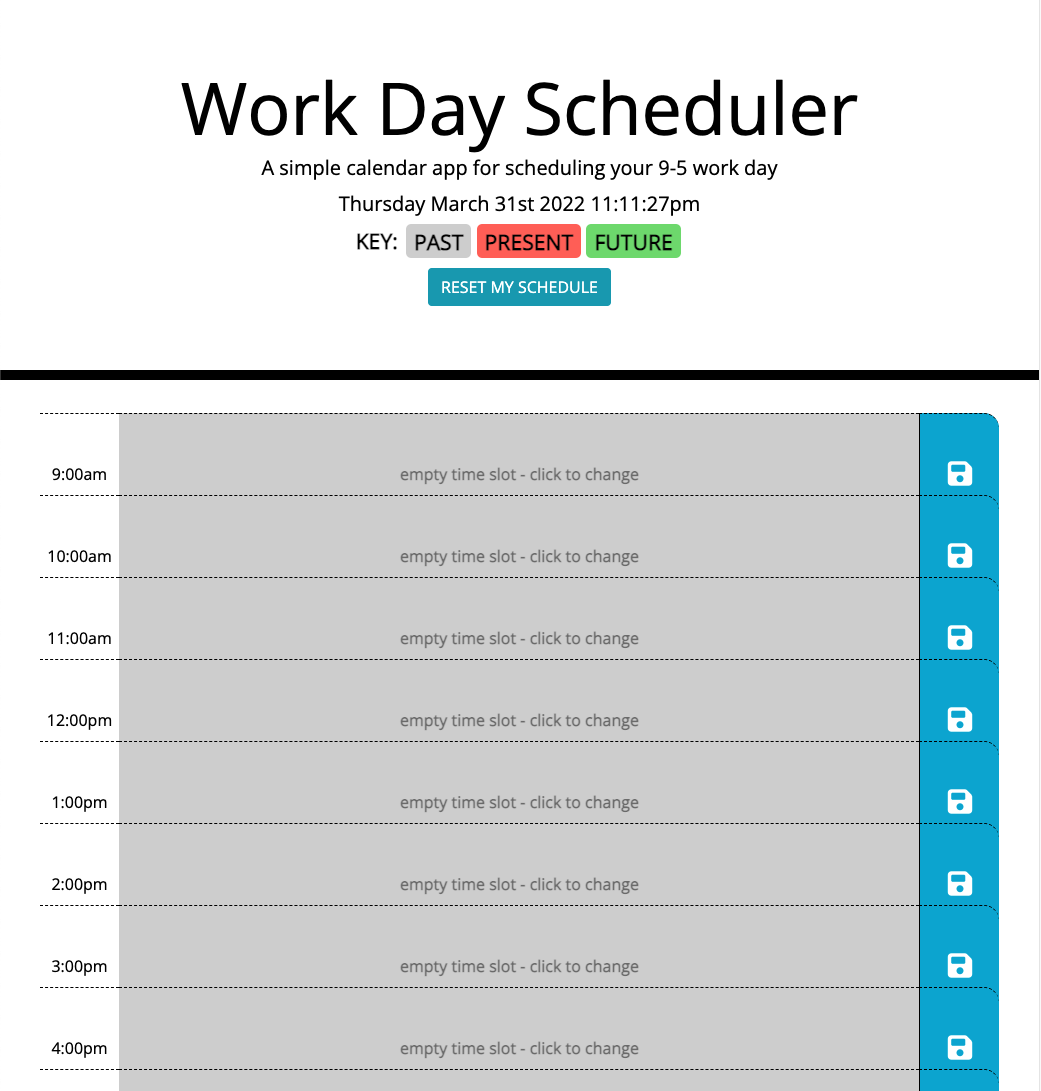
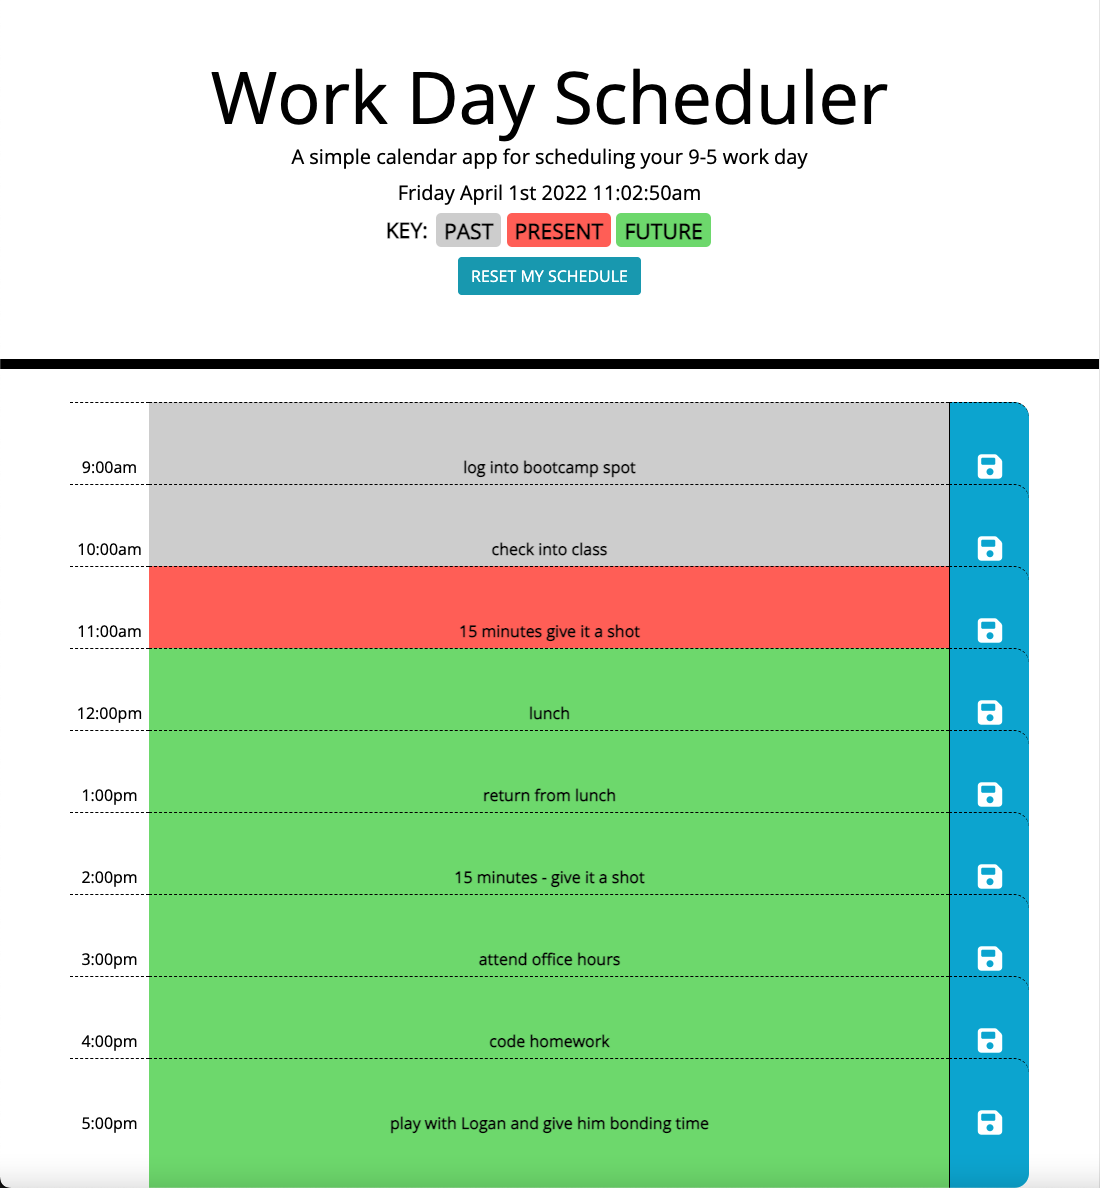
Updated the readme screenshot to show the conditional formatting in action

diff --git a/README.md b/README.md
@@ -10,7 +10,7 @@ This is a browser application. Simply visit the launched page.
 
 The application is fairly simple and includes a color coded-key to guide you through the day. Simply click in any of the time block where there is currently a message telling you that you may click to edit, write what you want to do in that hour of the day, and click the save icon next to your input. Feel free to re-visit the page throughout the day to check or update your schedule, as it will remember what you entered in, provided you do not clear your browsing history, cache, cookies, or have been using private/incognito browsing modes. The schedule is saved to your computer on the browser you used, so you will NOT be abel to access the schedule on a different device. If you do the same thing every day, the app is going to load with the previous day's schedule already the next day. If you need a clean slate, simply click the reset button and confirm "ok" in the pop up window.
 
-![A screenshot of the app's appearance at the end of an 8 hour work day](./README_assets/day-planner-screenshot.png)
+![A screenshot of the app's appearance as the day goes on](./README_assets/day-planner-screenshot.png)
 
 ## Contributing
 Pull requests are welcome. For major changes, please open an issue first to discuss what you would like to change.
